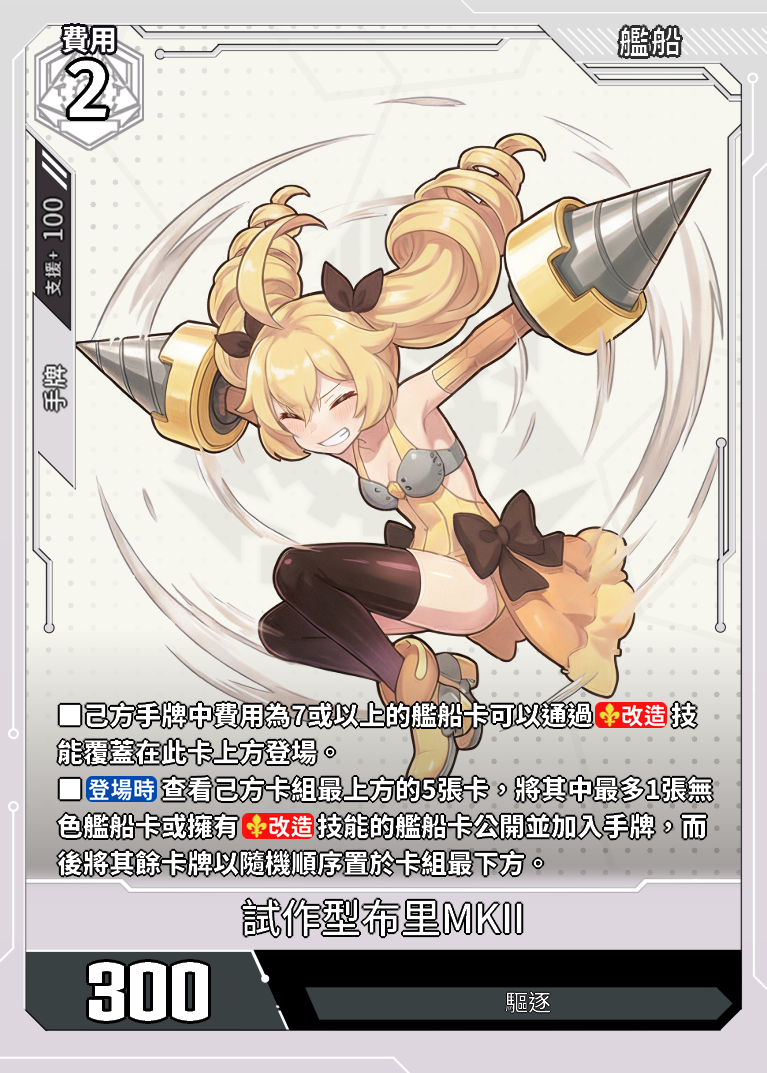
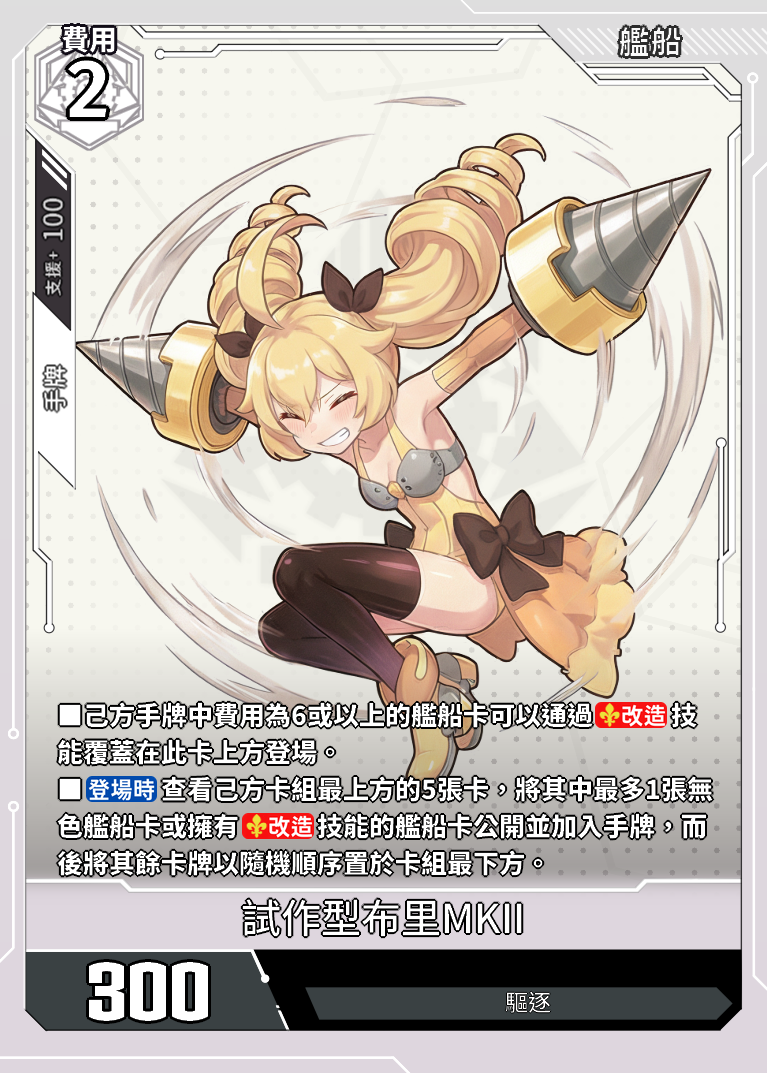
更新金布里

diff --git a/data.js b/data.js
@@ -25457,7 +25457,7 @@ const cards = [
             "支援範圍": "手牌",
             "支援值": "100"
         },
-        "card_effect": "■己方手牌中費用為7或以上的艦船卡可以通過【改造】技能覆蓋在此卡上方登場。■【登場時】查看己方卡組最上方的5張卡，將其中最多1張無色艦船卡或擁有【改造】技能的艦船卡公開並加入手牌，而後將其餘卡牌以隨機順序置於卡組最下方。",
+        "card_effect": "■己方手牌中費用為6或以上的艦船卡可以通過【改造】技能覆蓋在此卡上方登場。■【登場時】查看己方卡組最上方的5張卡，將其中最多1張無色艦船卡或擁有【改造】技能的艦船卡公開並加入手牌，而後將其餘卡牌以隨機順序置於卡組最下方。",
         "acquisition_method": "CE02-早期測試"
     },
 	{

diff --git a/topdeck.js b/topdeck.js
@@ -1,6 +1,15 @@
 // topdeck.js
 const topDecks = [
   {
+    "deck_id": "20260410-1",
+    "L_name": "曙光",
+    "Format": "7.5.1",
+    "Description": "20260410 玩具e哥花蓮和平店 碧藍戰卡CE週賽 8人(7.5.1) 冠軍 曙光 展示無敵的天羽羽斬",
+    "Level": "常規賽",
+    "Players": 8,
+    "Champion": 1
+  },
+  {
     "deck_id": "20260405-1",
     "L_name": "聖路易斯",
     "Format": "7.5.1",
